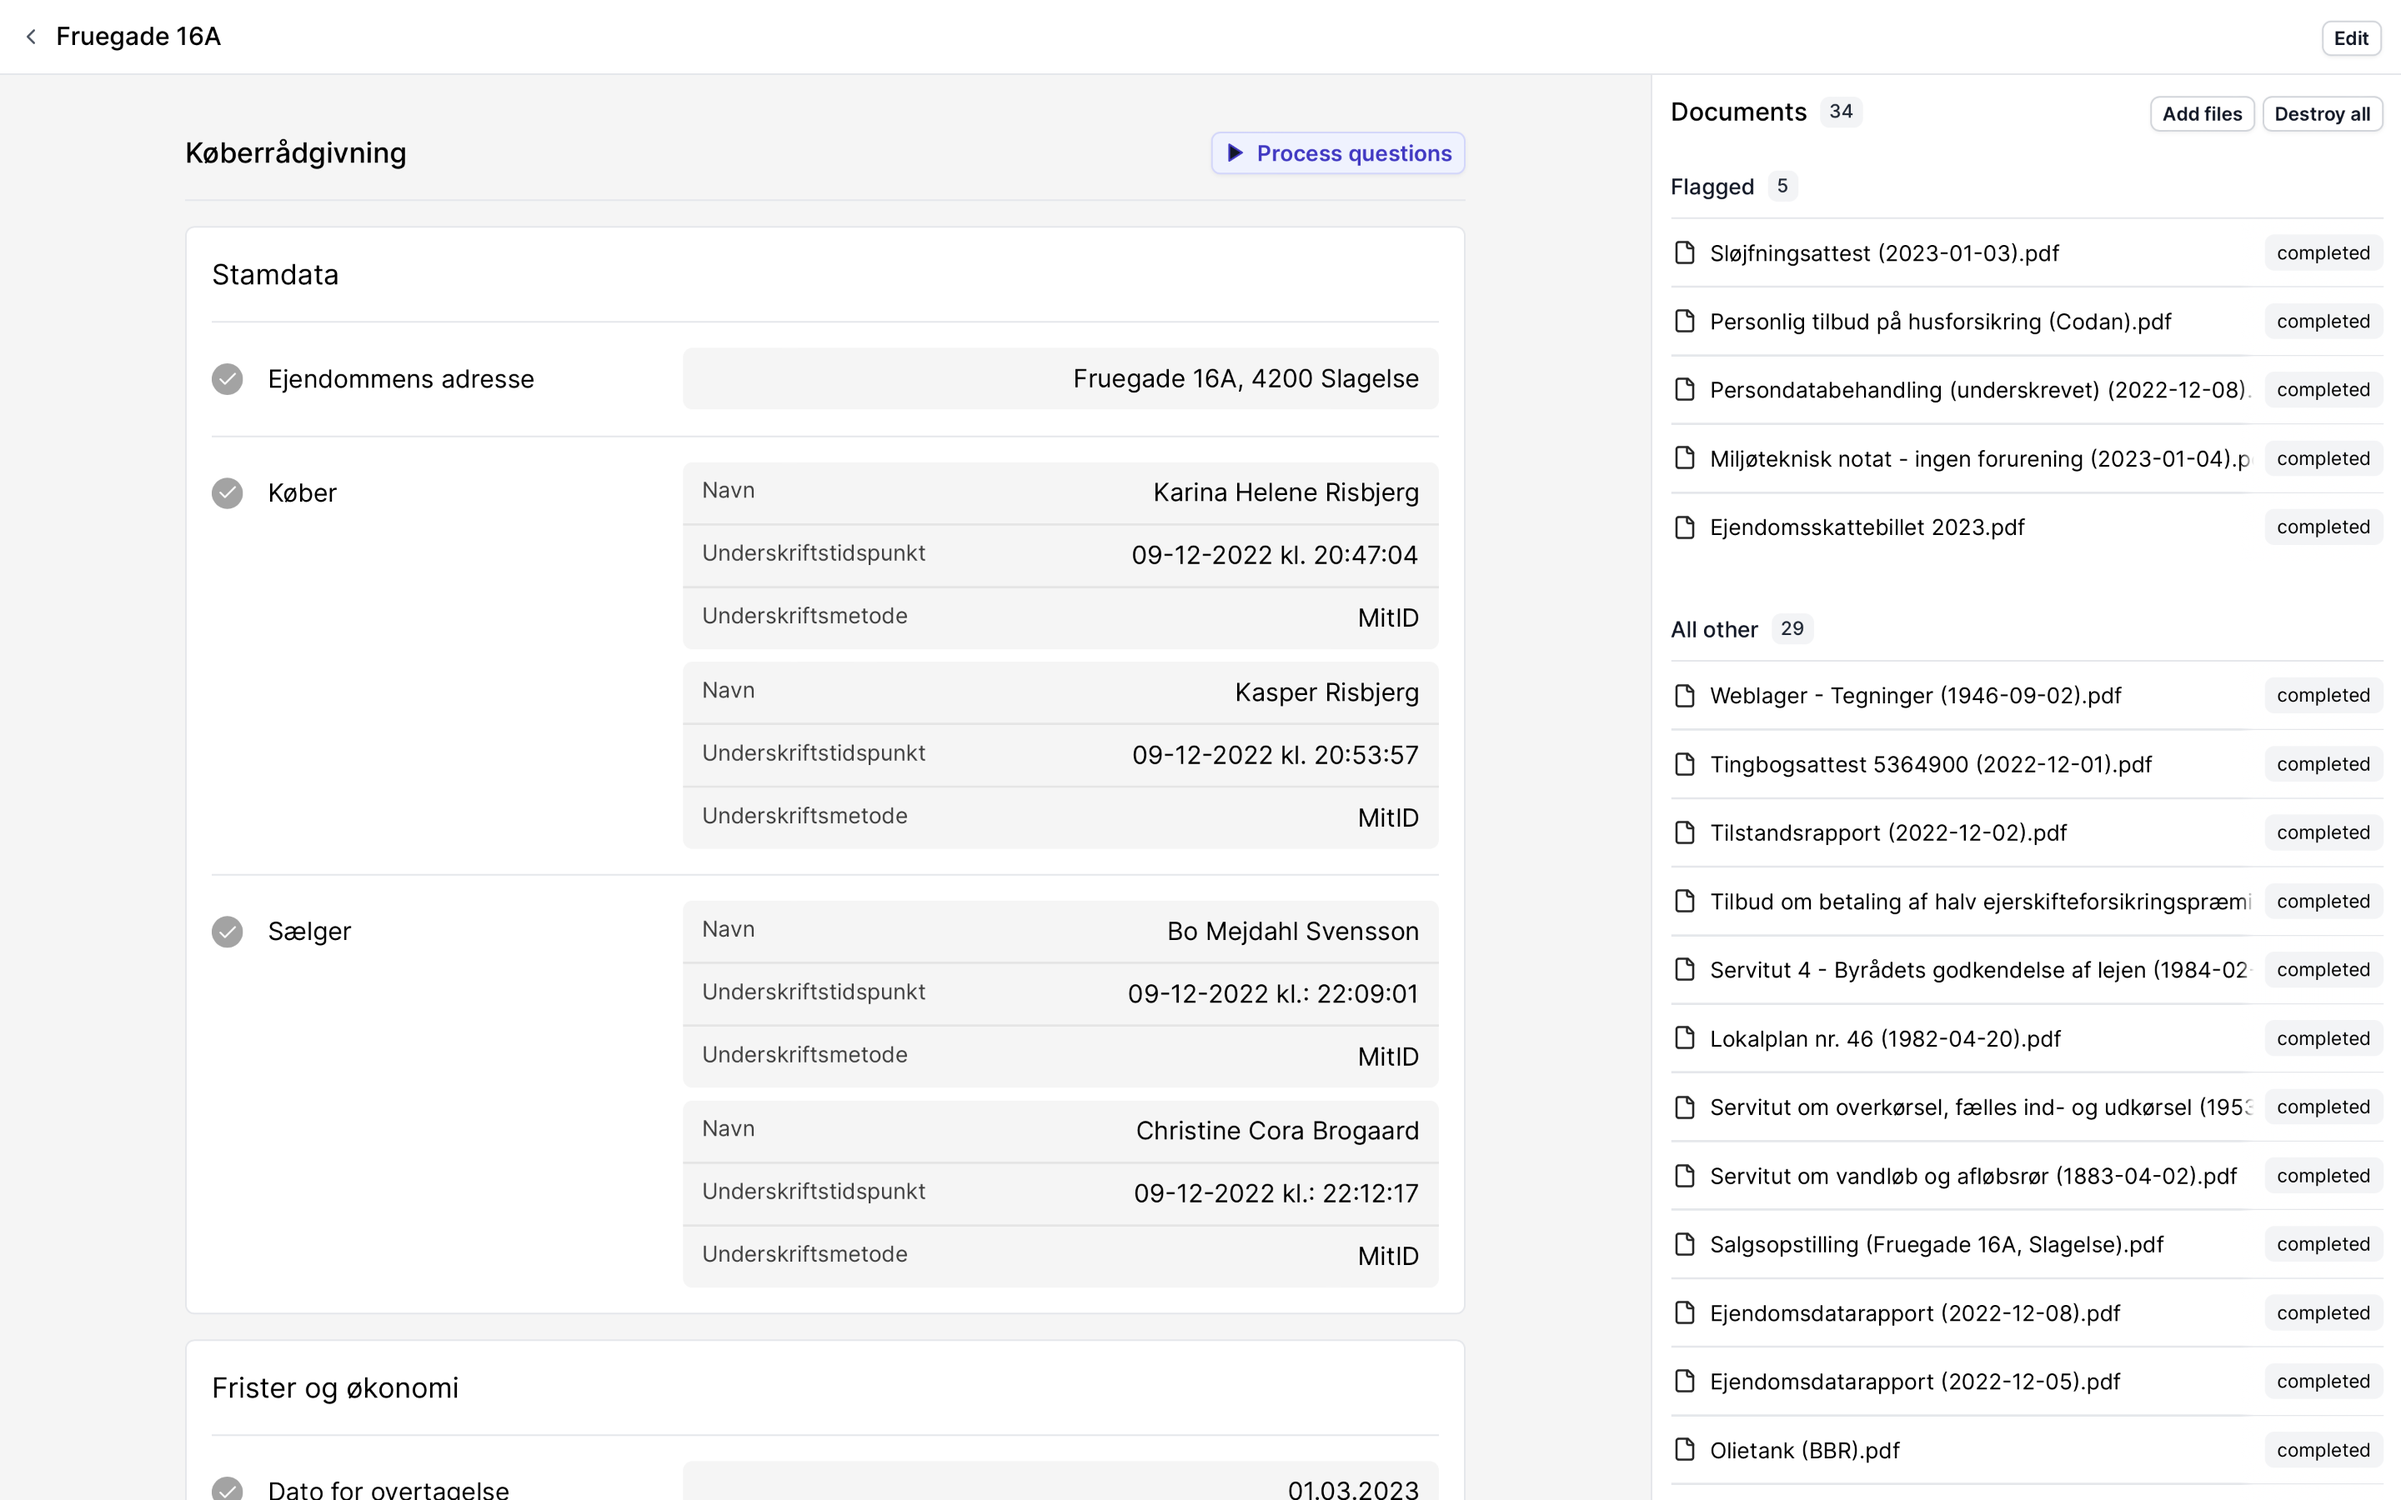
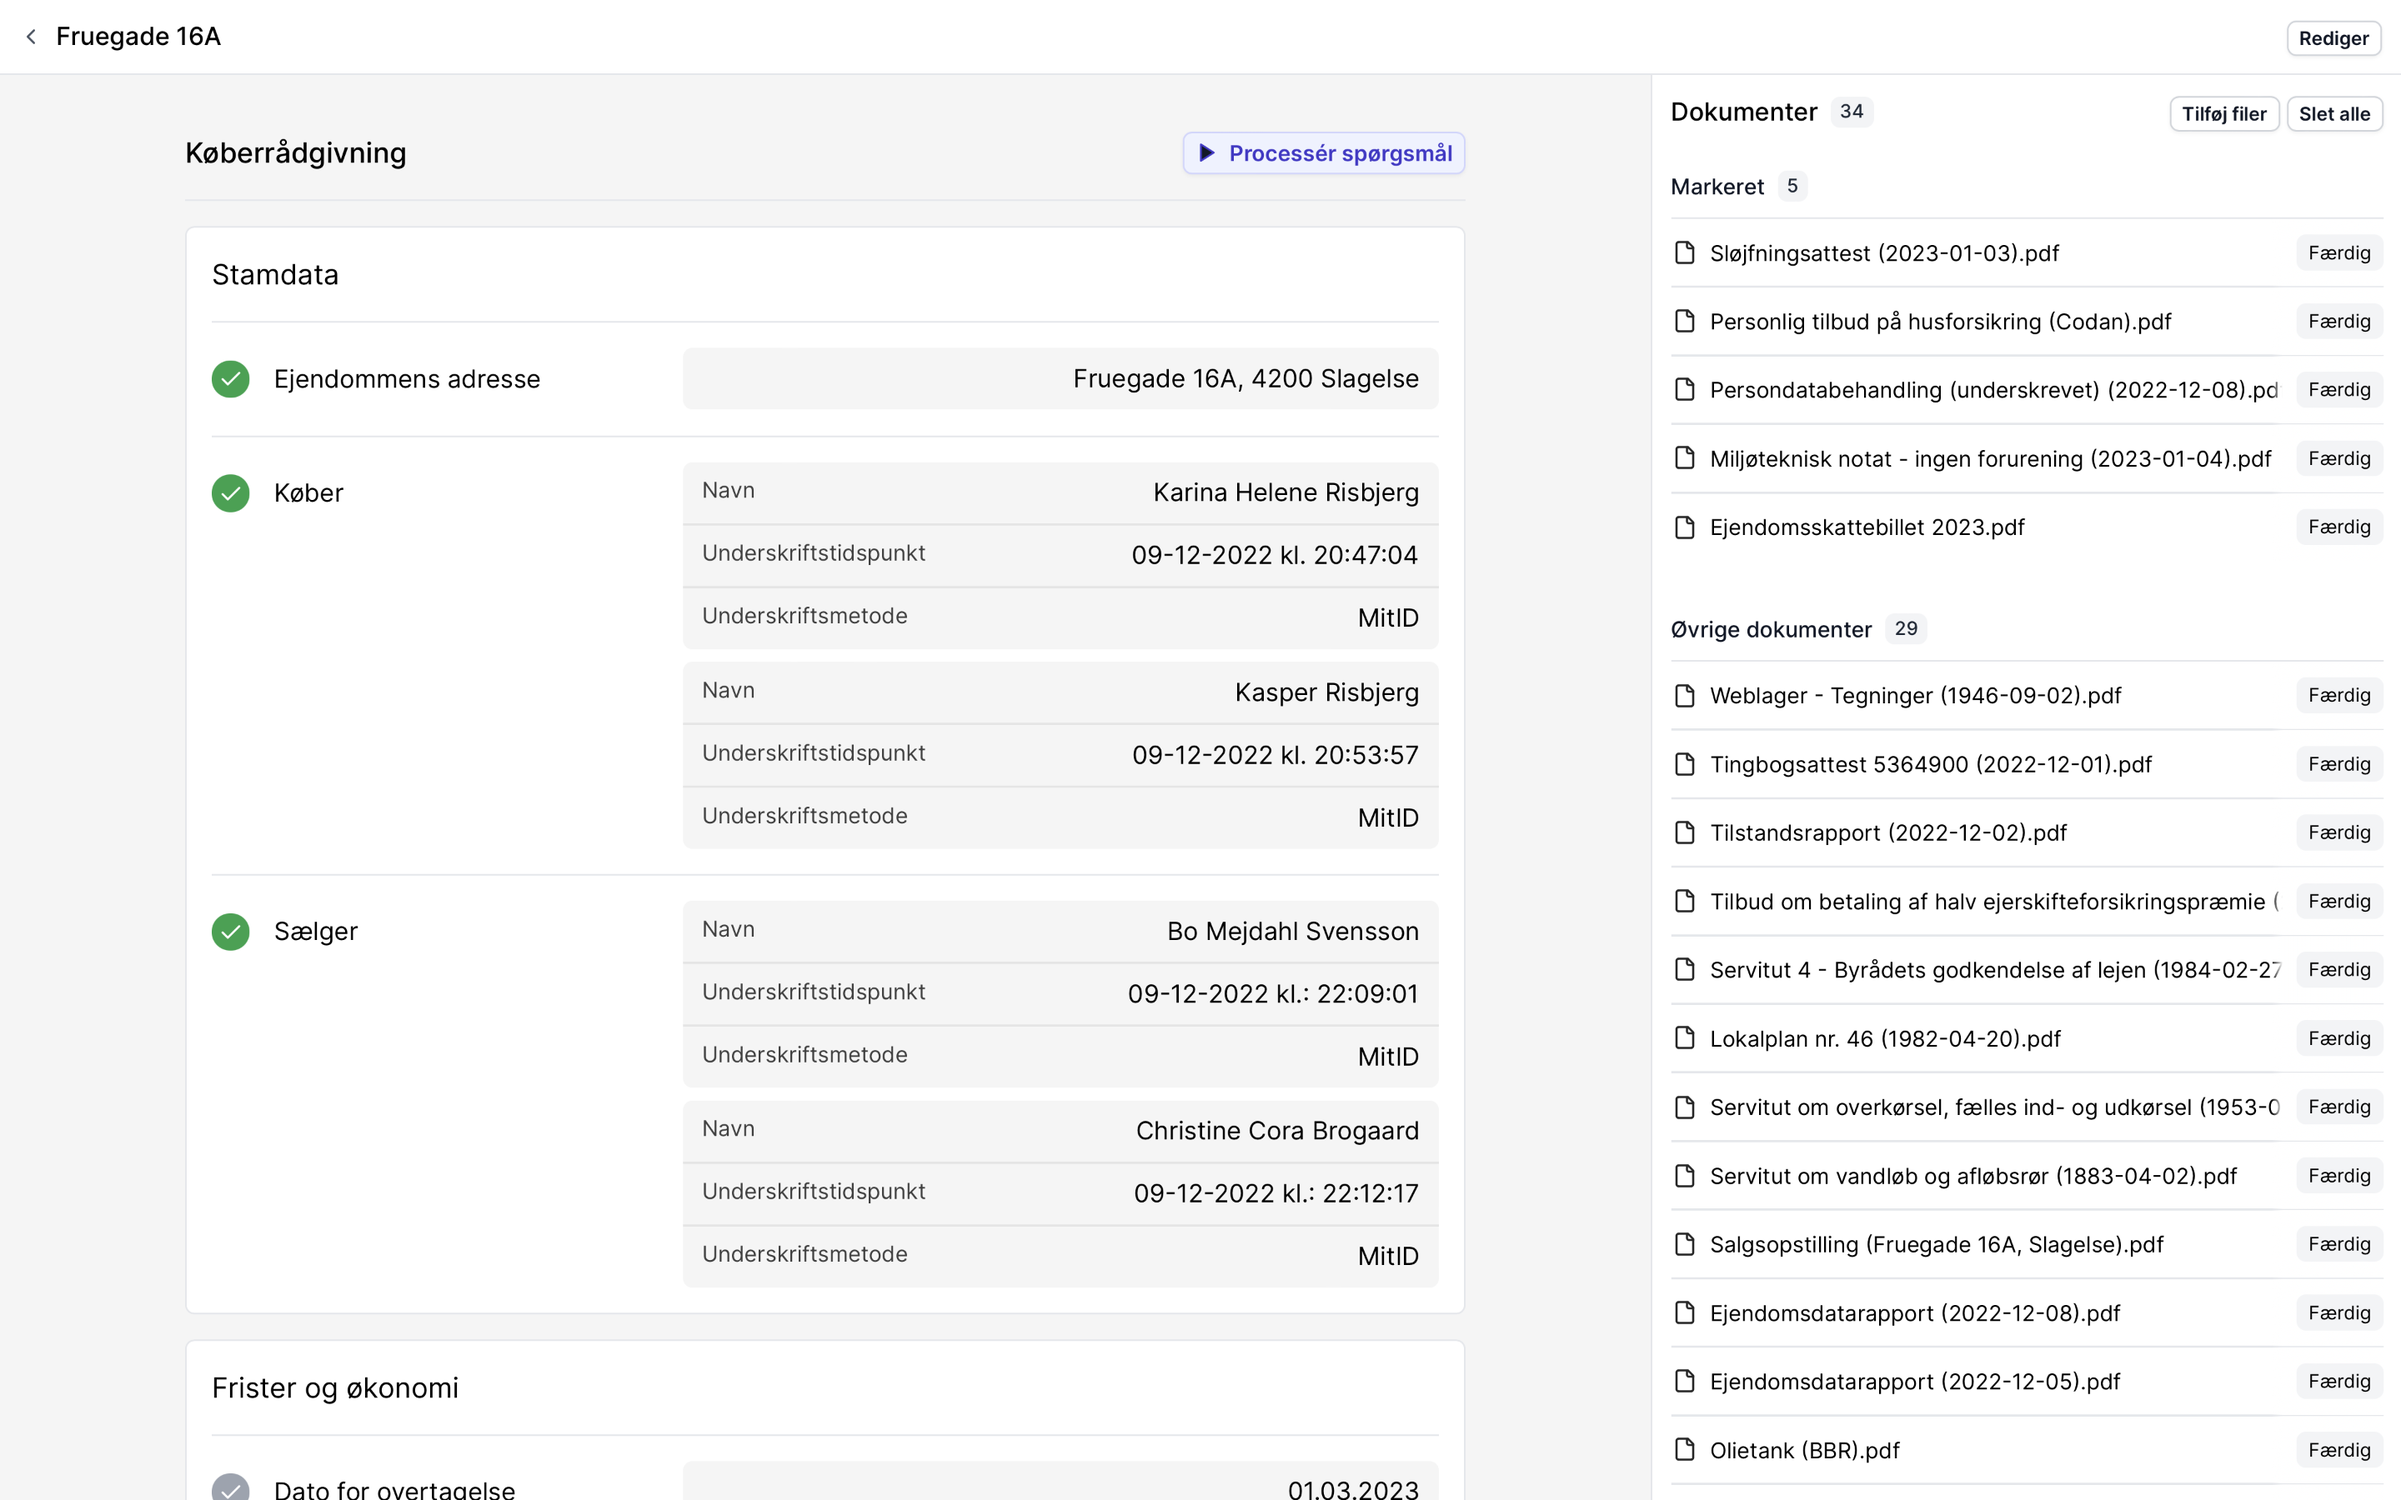
Update

diff --git a/index.html b/index.html
@@ -94,7 +94,7 @@ questions:
       {% endfor %}
     </div>
   </section>
-  <section id="about" class="container max-w-screen-xl mx-auto flex flex-col md:flex-row gap-8">
+  <section id="about" class="hidden container max-w-screen-xl mx-auto flex flex-col md:flex-row gap-8">
     <div class="flex flex-col gap-y-4 w-full md:w-1/3">
       <div class="bg-stone-200 aspect-[4/3] rounded-3xl overflow-hidden">
         <img src="{{ site.baseurl }}/assets/images/karina.jpeg" alt="" class="w-full h-full object-cover object-top">
@@ -272,7 +272,7 @@ questions:
           <div class="w-full sm:w-10/12 flex flex-col divide-y divide-neutral-200/80 scale-90 sm:scale-100">
             {% for metric in page.metrics %}
               <div class="flex items-center gap-x-4 rounded-3xl py-2">
-                <div class="flex items-center justify-center rounded-full bg-green-800 p-1"><span data-lucide="check" class="w-4 h-4 inline-block text-white"></span></div>
+                <div class="flex items-center justify-center rounded-full bg-green-600 p-1"><span data-lucide="check" class="w-4 h-4 inline-block text-white"></span></div>
                 <div class="grow flex flex-col">
                   <p class="grow text-xl text-neutral-600">
                     {{ metric.label }}
